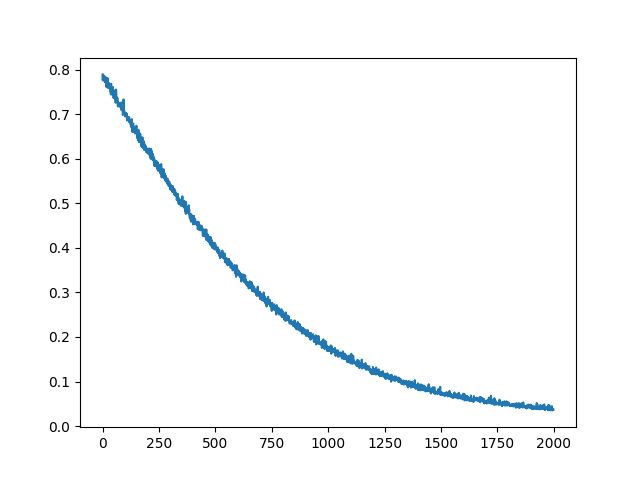
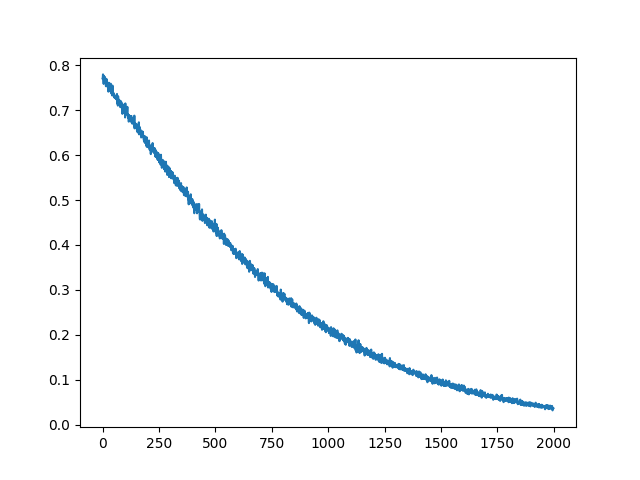
wip multi oja gt - not converging

diff --git a/multi-oja/multi_oja_gt.py b/multi-oja/multi_oja_gt.py
@@ -7,7 +7,7 @@ gpu = torch.device("cuda:0")
 # Neurons in input layer
 N_x = 16
 # Neurons in output layer - leq to input layer neurons
-N_y = 4
+N_y = 2
 M = torch.normal(torch.zeros((N_x, N_x)), torch.ones((N_x, N_x)))
 Q, _ = torch.linalg.qr(M)
 Q = Q.to(gpu)
@@ -17,23 +17,23 @@ r_dist = torch.distributions.multivariate_normal.MultivariateNormal(torch.zeros(
 
 W = torch.normal(torch.zeros(N_y, N_x), torch.ones(N_y, N_x))
 W = W.to(gpu)
-W.requires_grad_(True)
+#W.requires_grad_(True)
 
 lr = 1e-3
 n_train = 2000
-alpha_start = 1e-2
+alpha_start = 1e-1
 alpha_end = 1e-3
 # Exponential decay lr starting at alpha_start and ending at alpha_end
 alphas = alpha_start*torch.exp(torch.arange(n_train) * (np.log(alpha_end / alpha_start) / (n_train-1)))
 #alphas = ((alpha_end - alpha_start) / n_train) * torch.arange(n_train) + alpha_start
 optim = torch.optim.Adam([W], lr=lr)
-# Batches to draw from normal dist to (noisily) estimate PC1
+# Batches to draw from normal dist to (noisily) estimate PC i
 losses = torch.empty((n_train,))
 #W_val = torch.empty(n_train, N)
 #pre = torch.empty((n_train, N))
 #post = torch.empty((n_train, 1))
 for i in range(n_train):
-    r_pre = r_dist.sample()
+    r_pre = r_dist.sample().unsqueeze(1)
     r_post = W @ r_pre
     
     B = 512
@@ -41,11 +41,13 @@ for i in range(n_train):
     eigvals, eigvecs = torch.linalg.eigh(c)
     pc_i = eigvecs[:, -N_y:].t()
 
+    #print(eigvals[-N_y:], torch.exp(-torch.arange(N_x))[:N_y])
+
     norm_pci = pc_i / torch.linalg.vector_norm(pc_i, dim=1).unsqueeze(1)
     norm_W = W / torch.linalg.vector_norm(W, dim=1).unsqueeze(1)
 
     # transposing and unsqueezing to match required bmm format
-    a = torch.bmm(norm_W.unsqueeze(1), norm_pci.unsqueeze(2)).squeeze(1, 2)
+    a = torch.bmm(norm_W.unsqueeze(1), norm_pci.unsqueeze(2))
 
     loss = 1-torch.mean(torch.abs(a))
 
@@ -54,16 +56,16 @@ for i in range(n_train):
     # W_val[i] = W
     # pre[i] = r_pre
     # post[i] = r_post
-    #delta_W = alphas[i] * r_post*(r_pre - r_post*W)
-    #W += delta_W
-    optim.zero_grad()
-    loss.backward()
-    optim.step()
+    delta_W = alphas[i] * r_post*(r_pre.t() - r_post*W)
+    W += delta_W
+    # optim.zero_grad()
+    # loss.backward()
+    # optim.step()
 
 
 plt.plot(losses)
-plt.savefig("losses_gd.png")
-torch.save(losses, "losses_gd.pt")
+plt.savefig("losses_gt.png")
+torch.save(losses, "losses_gt.pt")
 # torch.save(pre, "r_pre_gd.pt")
 # torch.save(post, "r_post_gd.pt")
 # torch.save(W_val, "weights_gd.pt")
